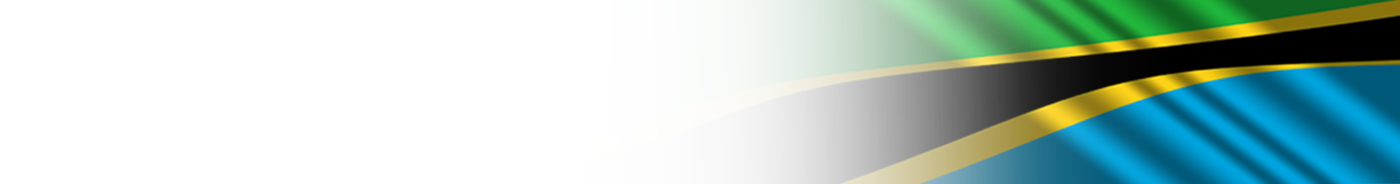
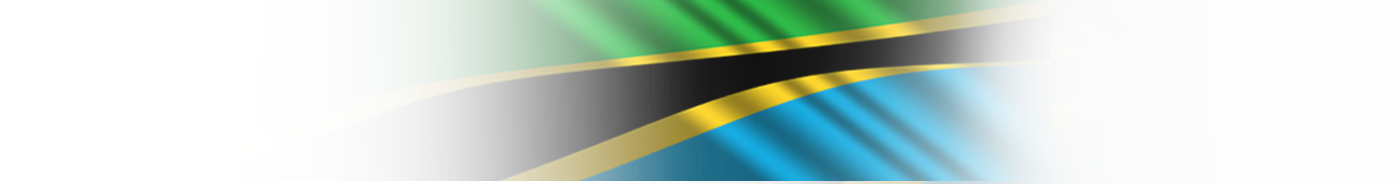
add header background

diff --git a/static/css/main.css b/static/css/main.css
@@ -6,5 +6,14 @@ body{
 }
 .navbar-brand>img {
     max-height: 100%;
+}
+#main-nav{
+    background: url('../img/odp-banner.png');
+    background-size: 100% 70px;
+}
 
+@media (max-width: 768px){
+    #main-nav .navbar-collapse{
+        background: #fff;
+    }
 }
